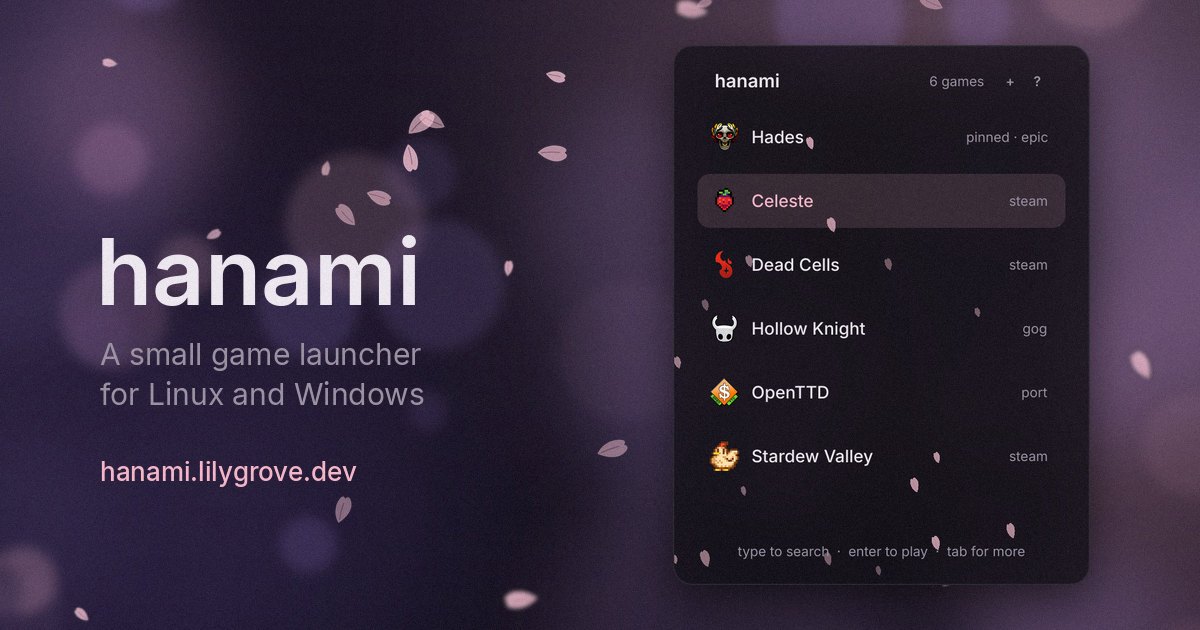
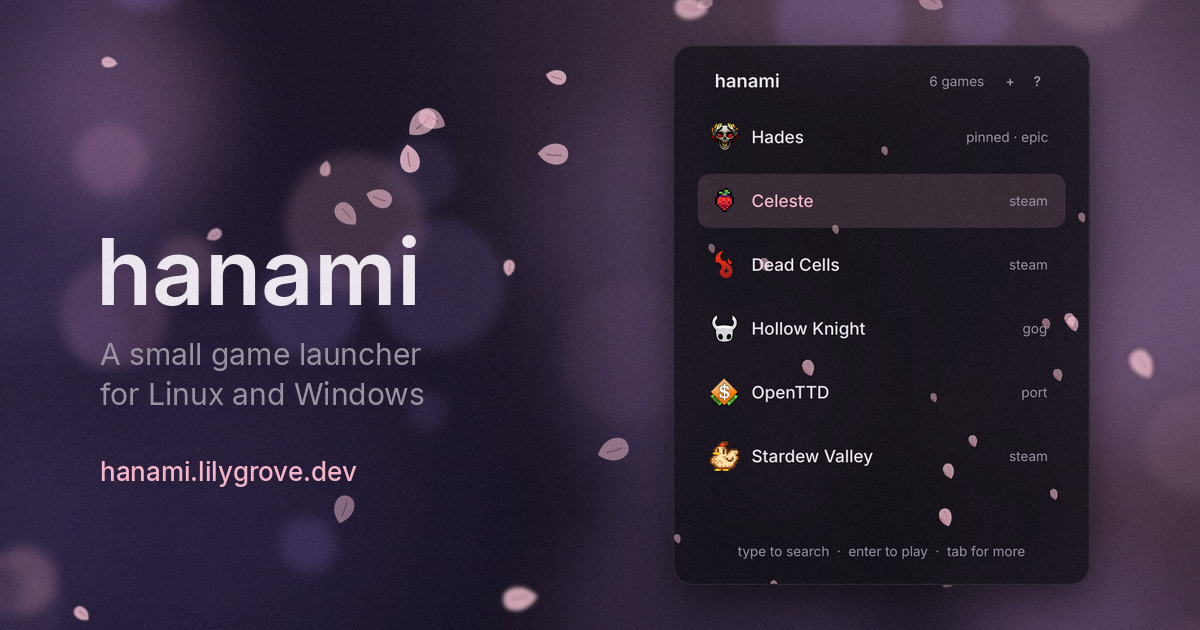
feat(theme): petal.png, emoji examples, plumper petals
- A petal can be a png, webp or jpeg next to the settings, not only an
  SVG, so a picture from anywhere (a picture AI, an emoji set) works.
- The guide's leaf and snowflake examples are Fluent Emoji (MIT), which
  are drawn to read at 16 px; hand-plotted shapes didn't. README credits.
- The sakura petal is plumper with no notch (a notch reads as a heart at
  petal size), and petals are a little bigger and more solid.
- README pictures and site petal redrawn.

diff --git a/hanami/src/theme.rs b/hanami/src/theme.rs
@@ -1,6 +1,7 @@
-//! The look, from the settings' `[theme]` and a `petal.svg` next to the
-//! settings file: both are plain text an AI can write, so the `?` prompt
-//! can ask for an autumn panel with maple leaves and get one.
+//! The look, from the settings' `[theme]` and a `petal.svg` (or any
+//! picture named `petal`) next to the settings file: the text ones an AI
+//! can write, so the `?` prompt can ask for an autumn panel with maple
+//! leaves and get one; a png can come from a picture AI or anywhere.
 
 use std::path::Path;
 
@@ -9,16 +10,19 @@ use slint::{Color, ComponentHandle, ModelRc, VecModel};
 use crate::config::Theme;
 use crate::{Panel, Tokens, petals};
 
-/// Petal pictures bigger than this are refused: a petal is a few lines of SVG.
-const MAX_SVG_BYTES: u64 = 64 * 1024;
+/// Petal pictures bigger than this are refused: a petal is a few lines of
+/// SVG or a small png.
+const MAX_PETAL_BYTES: u64 = 512 * 1024;
+/// Picture kinds a petal may be, the first found winning.
+const PETAL_KINDS: [&str; 5] = ["svg", "png", "webp", "jpg", "jpeg"];
 /// The petal is drawn at this size and scaled down, so it stays sharp on 2x screens.
 const PETAL_PX: u32 = 64;
 /// The sakura petal, for when there is no petal.svg.
 const SAKURA: &[u8] = include_bytes!("../../assets/petal.svg");
 
 /// Puts `theme` on `panel`. `dir` is the settings folder, where `petal.svg`
-/// may be; `scale` the screen's. A petal file that can't be used is
-/// reported and the sakura petal stays.
+/// (or `petal.png`) may be; `scale` the screen's. A petal file that can't
+/// be used is reported and the sakura petal stays.
 pub fn apply(panel: &Panel, theme: &Theme, dir: Option<&Path>, scale: f32) -> Result<(), String> {
     let tokens = panel.global::<Tokens>();
     tokens.set_panel(colour(theme.panel));
@@ -36,7 +40,7 @@ pub fn apply(panel: &Panel, theme: &Theme, dir: Option<&Path>, scale: f32) -> Re
     panel.set_petals(ModelRc::new(VecModel::from(petals::petals(&motion))));
     panel.set_dots(ModelRc::new(VecModel::from(petals::dots(theme.dots))));
     let px = (PETAL_PX as f32 * scale.max(1.0)) as u32;
-    let own = dir.map(|dir| dir.join("petal.svg")).filter(|path| path.exists()).map(|path| petal(&path, px));
+    let own = dir.and_then(petal_file).map(|path| petal(&path, px));
     let sakura = || slint::Image::from_rgba8(crate::icons::svg(SAKURA, px).expect("the built-in petal draws"));
     match own {
         Some(Ok(image)) => {
@@ -59,14 +63,19 @@ fn colour(c: crate::config::Colour) -> Color {
     Color::from_argb_u8(a, r, g, b)
 }
 
+/// The petal picture in `dir`, if there is one.
+fn petal_file(dir: &Path) -> Option<std::path::PathBuf> {
+    PETAL_KINDS.iter().map(|kind| dir.join(format!("petal.{kind}"))).find(|path| path.exists())
+}
+
 /// `path` drawn as a petal `px` wide, or why it couldn't be.
 fn petal(path: &Path, px: u32) -> Result<slint::Image, String> {
-    let size = std::fs::metadata(path).map_err(|e| format!("petal.svg: {e}"))?.len();
-    if size > MAX_SVG_BYTES {
-        return Err(format!("petal.svg: {} KB is too big for a petal (keep it under 64 KB)", size / 1024));
+    let name = path.file_name().and_then(|n| n.to_str()).unwrap_or("petal").to_owned();
+    let size = std::fs::metadata(path).map_err(|e| format!("{name}: {e}"))?.len();
+    if size > MAX_PETAL_BYTES {
+        return Err(format!("{name}: {} KB is too big for a petal (keep it under 512 KB)", size / 1024));
     }
-    let data = std::fs::read(path).map_err(|e| format!("petal.svg: {e}"))?;
-    let pixels = crate::icons::svg(&data, px).ok_or("petal.svg: not an SVG picture Hanami can draw")?;
+    let pixels = crate::icons::decode(path, px).ok_or(format!("{name}: not a picture Hanami can draw"))?;
     Ok(slint::Image::from_rgba8(pixels))
 }
 
@@ -83,10 +92,16 @@ mod tests {
         let image = petal(&path, PETAL_PX).unwrap();
         assert_eq!(image.size().width, PETAL_PX);
         std::fs::write(&path, "not svg at all").unwrap();
-        assert!(petal(&path, PETAL_PX).unwrap_err().contains("not an SVG"));
-        std::fs::write(&path, vec![b' '; 70 * 1024]).unwrap();
+        assert!(petal(&path, PETAL_PX).unwrap_err().contains("not a picture"));
+        std::fs::write(&path, vec![b' '; 600 * 1024]).unwrap();
         assert!(petal(&path, PETAL_PX).unwrap_err().contains("too big"));
         assert!(crate::icons::svg(SAKURA, PETAL_PX).is_some());
+        assert_eq!(petal_file(&dir).unwrap(), path);
+        let png = dir.join("petal.png");
+        image::RgbaImage::from_pixel(8, 8, image::Rgba([255, 0, 0, 255])).save(&png).unwrap();
+        std::fs::remove_file(&path).unwrap();
+        assert_eq!(petal_file(&dir).unwrap(), png);
+        assert_eq!(petal(&png, PETAL_PX).unwrap().size().width, PETAL_PX);
         std::fs::remove_dir_all(dir).unwrap();
     }
 }

diff --git a/docs/screenshot.py b/docs/screenshot.py
@@ -56,19 +56,19 @@ def cubic(p0, p1, p2, p3, steps=24):
 
 
 def petal(size, colour, vein, alpha, angle, blur):
-    """assets/petal.svg, drawn `size` pixels wide (the same curves, tilted the same 22 degrees)."""
+    """assets/petal.svg, drawn `size` pixels wide (the same curves, tilted the same 18 degrees)."""
     zoom = 8
     k = size * zoom / 20
-    outline = [((-1.5, 11), (-6.5, 6), (-7.5, -2.5), (-4.2, -8.3)), ((-4.2, -8.3), (-3.1, -10.3), (-1.6, -10.2), (-0.6, -8.4)),
-               ((-0.6, -8.4), (0.5, -10.1), (2.1, -10.6), (3.4, -9)), ((3.4, -9), (7, -4), (6, 3), (-1.5, 11))]
+    outline = [((0, 11), (-6, 6.5), (-8.2, 1), (-7.4, -4.2)), ((-7.4, -4.2), (-6.5, -9), (-3.6, -11), (0, -11)),
+               ((0, -11), (3.6, -11), (6.5, -9), (7.4, -4.2)), ((7.4, -4.2), (8.2, 1), (6, 6.5), (0, 11))]
     side = int(size * 1.6 * zoom)
     to_px = lambda p: (side / 2 + p[0] * k, side / 2 + p[1] * k)
     big = Image.new("RGBA", (side, side), colour + (0,))
     draw = ImageDraw.Draw(big)
     draw.polygon([to_px(p) for seg in outline for p in cubic(*seg)], fill=colour + (255,))
-    draw.line([to_px(p) for p in cubic((-1.2, 8.5), (-1.6, 4), (-1.4, -1), (-0.8, -5))] + [to_px((-0.8, -5))],
-              fill=vein + (180,), width=max(1, int(0.8 * k)))
-    small = big.rotate(angle + 22, resample=Image.BICUBIC).resize((side // zoom, side // zoom), Image.LANCZOS)
+    draw.line([to_px(p) for p in cubic((0.5, -6.5), (1.1, -3), (1, 1), (0.3, 5))] + [to_px((0.3, 5))],
+              fill=vein + (200,), width=max(1, int(1.3 * k)))
+    small = big.rotate(angle + 18, resample=Image.BICUBIC).resize((side // zoom, side // zoom), Image.LANCZOS)
     small.putalpha(small.getchannel("A").point(lambda a: int(a * alpha)))
     return small.filter(ImageFilter.GaussianBlur(blur)) if blur else small
 

diff --git a/hanami/src/petals.rs b/hanami/src/petals.rs
@@ -49,8 +49,8 @@ pub fn petals(motion: &Motion) -> Vec<Petal> {
                 sway: (5.0 + next() * 14.0) * motion.drift,
                 freq: 0.4 + next() * 0.6,
                 spin: (next() - 0.5) * 70.0 * motion.spin,
-                size: (6.0 + near * 8.5) * motion.size,
-                alpha: 0.35 + near * 0.45 + next() * 0.1,
+                size: (7.0 + near * 11.0) * motion.size,
+                alpha: 0.45 + near * 0.4 + next() * 0.1,
                 phase: next() * std::f32::consts::TAU,
                 tint,
             }

diff --git a/hanami/src/config.rs b/hanami/src/config.rs
@@ -58,8 +58,8 @@ controller = true
 online = true
 
 # The look. Colours are "#rrggbb" or "#rrggbbaa" (the last two digits are
-# how solid: 00 see-through, ff solid). A petal.svg file next to this one
-# replaces the sakura petal; see GUIDE.md, "Changing the look".
+# how solid: 00 see-through, ff solid). A petal.svg or petal.png next to
+# this file replaces the sakura petal; see GUIDE.md, "Changing the look".
 [theme]
 panel = "#17141db8"
 text = "#ece6ee"

diff --git a/GUIDE.md b/GUIDE.md
@@ -332,15 +332,17 @@ Colours are `"#rrggbb"` or `"#rrggbbaa"`. Keep `panel` between `80` and
 light on a dark panel (or dark on a light one). A wrong value keeps the
 old look and the panel says which line is wrong.
 
-**2. `petal.svg` next to the settings file.** When it exists, it is the
-falling shape instead of the sakura petal. Delete it to get the petal back.
-Rules for the file, which Hanami checks:
+**2. `petal.svg` (or `petal.png`) next to the settings file.** When it
+exists, it is the falling shape instead of the sakura petal. Delete it to
+get the petal back. It can be an SVG, which is text an AI can write, or a
+png/webp/jpeg with a see-through background, from a picture AI or anywhere
+else (an emoji picture, say). Rules, which Hanami checks:
 
-- One plain SVG: a `viewBox` of `0 0 100 100`, one or a few `path`,
+- An SVG is one plain file: a square `viewBox`, one or a few `path`,
   `circle` or `ellipse` elements with `fill` or `stroke` colours, nothing
   else. No text, no pictures inside it, no links to other files, no scripts,
   no filters, no gradients.
-- Under 64 KB; a petal is a few lines.
+- Under 512 KB; a petal is a few lines, or a png of 64 to 256 pixels.
 - The shape should fill most of the box and be clear at 12 pixels: a leaf,
   a petal, a snowflake, a star. Fine detail disappears at that size; a
   detailed shape like a leaf wants `size = 2.0` and fewer petals.
@@ -355,16 +357,23 @@ was asked for; then say what you changed. To check the result,
 `hanami --snapshot look.png` draws the panel with the current look into a
 picture without opening it.
 
-Example `petal.svg`, a soft maple leaf (with `size = 2.0` and `petals = 14`
-in `[theme]`, since a leaf needs more room than a petal). Keep shapes soft
-and chunky like this one: pointed tips are fine, but thin lines and tiny
-teeth turn to mush at petal size, and a snowflake wants fat arms
-(`stroke-width` of 7 or so in a 100-wide box):
+Shapes drawn by hand from coordinates rarely look right; emoji pictures
+do, since they are drawn to be clear at 16 pixels. The two examples
+below are Microsoft's Fluent Emoji (MIT licence), as they come. The
+maple leaf, with the autumn row of the table above:
 
 ```svg
-<svg xmlns="http://www.w3.org/2000/svg" viewBox="0 0 100 100">
-  <path d="M 50.0 4.0 Q 56.9 10.5 58.8 21.2 Q 63.4 34.1 75.3 32.8 Q 84.2 30.6 91.3 33.8 Q 89.6 41.5 82.3 47.1 Q 75.7 57.6 75.8 64.9 Q 80.8 70.5 80.7 76.3 Q 75.3 78.2 68.4 75.1 Q 57.9 73.5 54.3 78.6 L 52.5 78 L 51.5 96 L 48.5 96 L 47.5 78 L 45.7 78.6 Q 42.1 73.5 31.6 75.1 Q 24.7 78.2 19.3 76.3 Q 19.2 70.5 24.2 64.9 Q 24.3 57.6 17.7 47.1 Q 10.4 41.5 8.7 33.8 Q 15.8 30.6 24.7 32.8 Q 36.6 34.1 41.2 21.2 Q 43.1 10.5 50.0 4.0 Z" fill="#e0602a"/>
-  <path d="M50 74 L50 14 M50 74 L82 38 M50 74 L18 38 M50 74 L73 70 M50 74 L27 70" stroke="#9a3410" stroke-width="2.5" fill="none" stroke-linecap="round"/>
+<svg width="32" height="32" viewBox="0 0 32 32" fill="none" xmlns="http://www.w3.org/2000/svg">
+<path d="M29.7164 17.8025L27.3964 17.3625C27.2564 17.3325 27.1864 17.1725 27.2564 17.0525L29.4164 13.5825C29.5064 13.4325 29.3964 13.2525 29.2264 13.2625L25.1564 13.6325C25.0164 13.6425 24.8964 13.5124 24.9364 13.3724L25.5764 11.1325C25.6264 10.9525 25.4264 10.8025 25.2664 10.9025L20.9164 13.6525C20.7664 13.7425 20.5764 13.6225 20.5964 13.4525L21.8764 4.12245C21.8964 3.95245 21.7164 3.8225 21.5664 3.9225L18.2764 5.9225C18.1764 5.9825 18.0364 5.94248 17.9864 5.84248L16.1264 2.1125C16.0464 1.9625 15.8364 1.9625 15.7564 2.1125L13.8964 5.84248C13.8464 5.95248 13.7064 5.99251 13.6064 5.93251L10.2064 3.9225C10.0564 3.8325 9.86642 3.96246 9.89642 4.13246L11.5264 13.4525C11.5564 13.6225 11.3664 13.7525 11.2164 13.6625L6.60642 10.8925C6.44642 10.7925 6.24641 10.9424 6.29641 11.1224L6.94642 13.3825C6.98642 13.5225 6.87641 13.6625 6.72641 13.6425L2.65641 13.2725C2.48641 13.2525 2.37642 13.4425 2.46642 13.5925L4.62642 17.0625C4.70642 17.1825 4.63642 17.3524 4.48642 17.3724L2.16642 17.8125C1.98642 17.8425 1.93642 18.0825 2.09642 18.1925L8.63642 22.4825C8.80642 22.5925 8.84642 22.8125 8.73642 22.9825L6.80642 25.7325C6.71642 25.8625 6.84642 26.0425 6.99642 25.9825L15.3764 22.9225C15.7364 22.7925 16.1364 22.7925 16.4964 22.9225L24.8764 25.9825C25.0264 26.0425 25.1664 25.8625 25.0664 25.7325L23.1364 22.9825C23.0264 22.8225 23.0664 22.5925 23.2364 22.4825L29.7764 18.1925C29.9464 18.0725 29.8964 17.8325 29.7164 17.8025Z" fill="#F8312F"/>
+<path d="M15.9464 11.2725C16.4987 11.2725 16.9464 11.7202 16.9464 12.2725V20.3934L22.3889 17.5933C22.88 17.3407 23.4829 17.534 23.7356 18.0251C23.9882 18.5162 23.7949 19.1191 23.3038 19.3718L16.9464 22.6426V28.9725C16.9464 29.5248 16.4987 29.9725 15.9464 29.9725C15.3941 29.9725 14.9464 29.5248 14.9464 28.9725V22.6426L8.58886 19.3718C8.09776 19.1191 7.90447 18.5162 8.15714 18.0251C8.4098 17.534 9.01275 17.3407 9.50384 17.5933L14.9464 20.3935V12.2725C14.9464 11.7202 15.3941 11.2725 15.9464 11.2725Z" fill="#CA0B4A"/>
+</svg>
+```
+
+The snowflake, with the snow row (its `tints` paint it white):
+
+```svg
+<svg width="32" height="32" viewBox="0 0 32 32" fill="none" xmlns="http://www.w3.org/2000/svg">
+<path d="M23.5638 18.9L28.6756 17.54C29.229 17.39 29.8126 17.69 29.9636 18.25C30.1145 18.81 29.7824 19.37 29.229 19.52L26.1197 20.35L28.3435 21.62C28.8265 21.9 28.9976 22.51 28.7158 22.99C28.4341 23.47 27.8203 23.64 27.3373 23.36L25.1135 22.09L25.9486 25.18C26.0996 25.74 25.7776 26.3 25.2141 26.45C24.6506 26.6 24.0871 26.27 23.9361 25.72L22.5677 20.64L20.2533 19.31C19.5389 20.1 18.593 20.68 17.5062 20.9V23.53L21.2495 27.25C21.652 27.65 21.652 28.31 21.2495 28.71C20.847 29.11 20.1829 29.11 19.7804 28.71L17.5062 26.45V29C17.5062 29.55 17.0534 30 16.5 30C15.9466 30 15.4938 29.55 15.4938 29V26.46L13.2196 28.72C12.8171 29.12 12.153 29.12 11.7505 28.72C11.348 28.32 11.348 27.66 11.7505 27.26L15.4938 23.54V20.91C14.3969 20.69 13.4611 20.11 12.7467 19.32L10.4424 20.64L9.07391 25.72C8.92298 26.27 8.34942 26.6 7.79598 26.45C7.24255 26.3 6.91049 25.73 7.06142 25.18L7.89661 22.09L5.6728 23.37C5.18981 23.64 4.576 23.48 4.29425 23C4.0125 22.52 4.18356 21.91 4.6565 21.65L6.8803 20.37L3.771 19.54C3.21757 19.39 2.88551 18.82 3.03644 18.27C3.18738 17.72 3.76094 17.39 4.31437 17.54L9.4261 18.9L11.7405 17.57C11.5694 17.08 11.4587 16.55 11.4587 16C11.4587 15.45 11.5694 14.92 11.7405 14.45L9.4261 13.12L4.31437 14.48C3.75088 14.63 3.18738 14.3 3.03644 13.75C2.88551 13.19 3.21757 12.63 3.771 12.48L6.8803 11.65L4.6565 10.37C4.18356 10.09 4.0125 9.48 4.29425 9C4.56594 8.52 5.18981 8.36 5.66274 8.63L7.89661 9.91L7.06142 6.82C6.91049 6.27 7.24255 5.71 7.79598 5.56C8.34942 5.41 8.91291 5.74 9.06385 6.29L10.4323 11.37L12.7366 12.69C13.4511 11.9 14.3969 11.32 15.4837 11.1V8.47L11.7405 4.75C11.338 4.35 11.338 3.69 11.7405 3.29C12.143 2.89 12.8071 2.89 13.2096 3.29L15.4837 5.55V3C15.4837 2.45 15.9365 2 16.4899 2C17.0434 2 17.4962 2.45 17.4962 3V5.55L19.7703 3.29C20.1728 2.89 20.8369 2.89 21.2394 3.29C21.6419 3.69 21.6419 4.35 21.2394 4.75L17.4962 8.47V11.1C18.5829 11.32 19.5288 11.9 20.2332 12.68L22.5475 11.35L23.916 6.27C24.067 5.72 24.6405 5.39 25.194 5.54C25.7474 5.69 26.0795 6.26 25.9285 6.81L25.0933 9.9L27.3171 8.63C27.8001 8.36 28.4139 8.52 28.6957 9C28.9674 9.48 28.8064 10.09 28.3334 10.36L26.1096 11.63L29.2189 12.46C29.7724 12.61 30.1044 13.18 29.9535 13.73C29.8026 14.28 29.229 14.61 28.6756 14.46L23.5638 13.1L21.2495 14.43C21.4205 14.92 21.5312 15.45 21.5312 16C21.5312 16.55 21.4205 17.07 21.2495 17.57L23.5638 18.9ZM19.5087 16C19.5087 14.3431 18.1572 13 16.49 13C14.8228 13 13.4712 14.3431 13.4712 16C13.4712 17.6569 14.8228 19 16.49 19C18.1572 19 19.5087 17.6569 19.5087 16Z" fill="#00A6ED"/>
 </svg>
 ```
 

diff --git a/README.md b/README.md
@@ -22,7 +22,7 @@ opens a small panel that lists your installed games.
 - **Controls:** `Ctrl+Alt+H` or the tray icon opens the panel; type to
   search (first letters and small typos work too), Enter to launch, Tab or
   right-click for more. A game controller works too: hold Start and Select.
-- **Your look:** colours and the falling petals are two small text files;
+- **Your look:** colours and the falling petals are two small files;
   write them yourself or ask your AI for "autumn, with maple leaves"
   ([how](GUIDE.md#changing-the-look)).
 - **Resource use:** about 35 MB of memory, no CPU use while hidden.
@@ -88,4 +88,6 @@ looks, and [ROADMAP.md](ROADMAP.md) what comes next. The website is in
 Hanami is free software under the [GNU GPL, version 3 or later](LICENSE).
 It is built with [Slint](https://slint.dev) and ships the
 [Inter](https://rsms.me/inter/) typeface (SIL Open Font License, in
-`assets/Inter-LICENSE.txt`).
+`assets/Inter-LICENSE.txt`). The maple leaf and snowflake examples in the
+guide are from Microsoft's
+[Fluent Emoji](https://github.com/microsoft/fluentui-emoji) (MIT).
